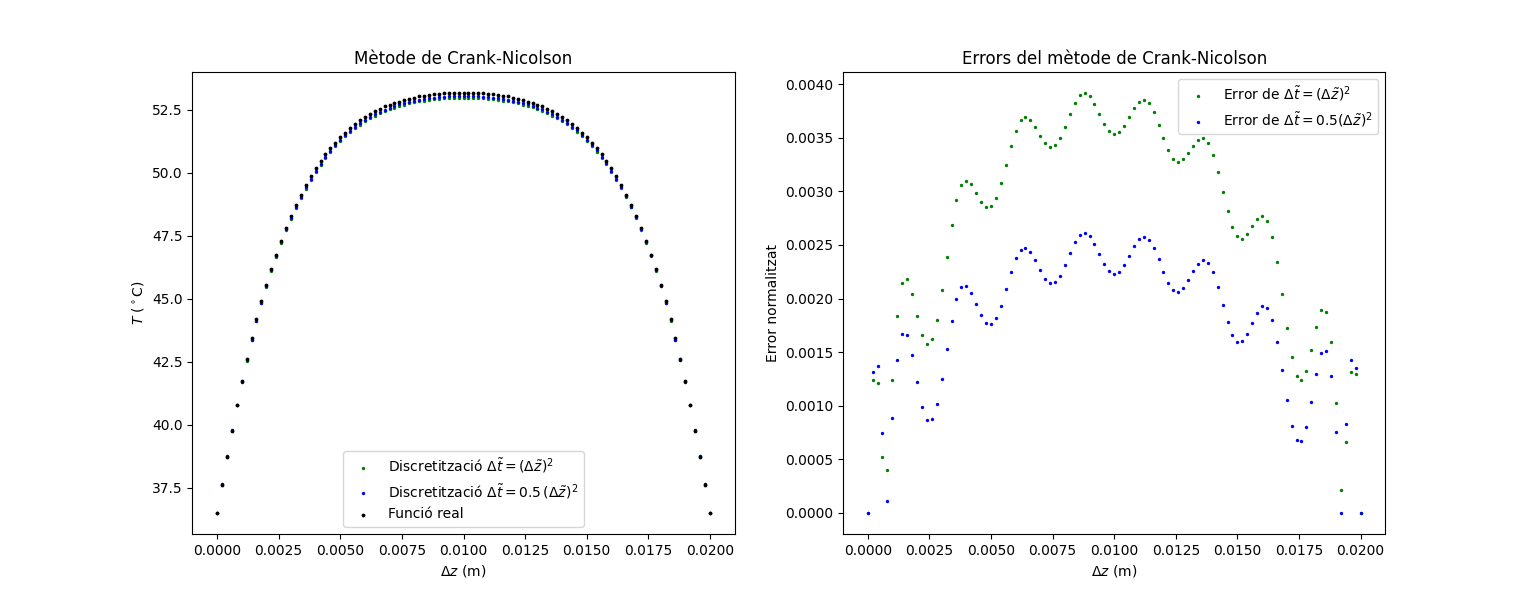
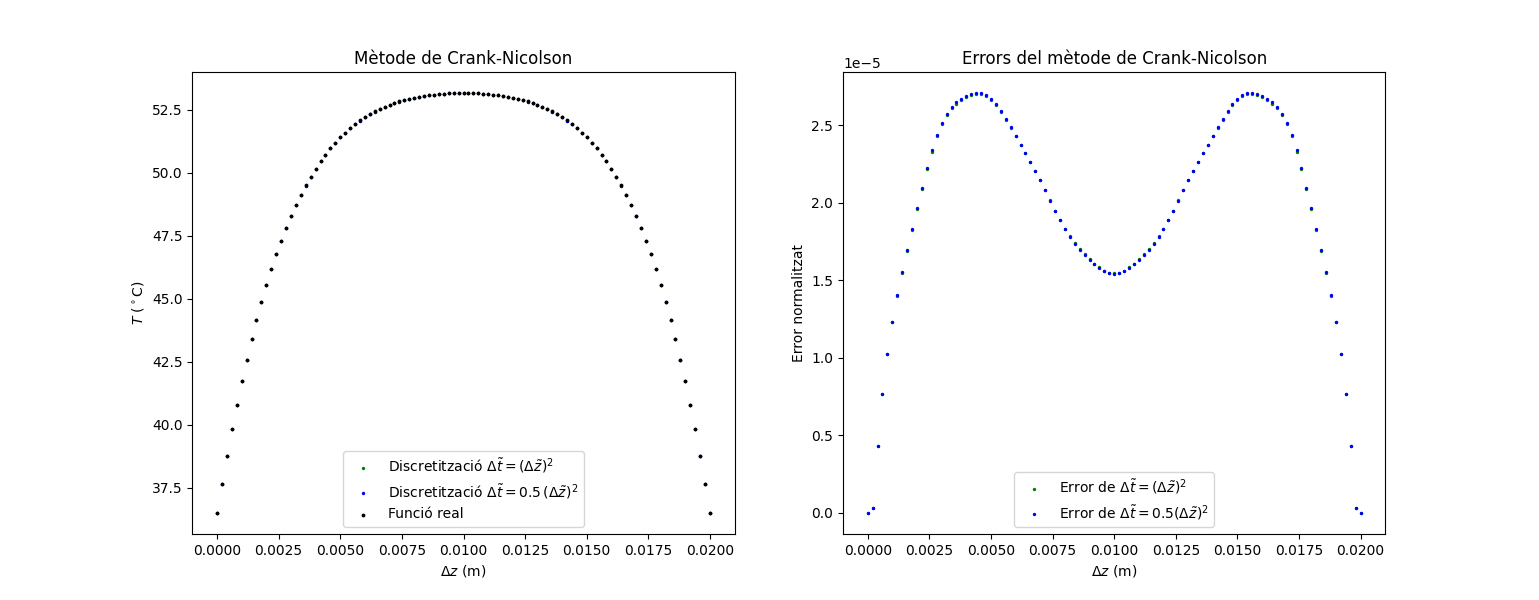
Add new files

diff --git a/Crank-Nicolson.py b/Crank-Nicolson.py
@@ -63,7 +63,7 @@ for o in range(2):
     phi=tau*np.ones(N) # Assignem la temperatura normalitzada com a llista.
     v=phi[1:N-1] #Agafem tots els valors de T que no siguin els valors 
     for j in range(int(p[o])):
-        u, total=gs(A[o], gamma[o], v, calcul_b(v, gamma[o], delta_t[o], tau), N, 0.00001) #Apliquem el mètode de gauss-seidel
+        u, total=gs(A[o], gamma[o], v, calcul_b(v, gamma[o], delta_t[o], tau), N, 10**(-12)) #Apliquem el mètode de gauss-seidel
         for k in range(N-2): v[k]=u[k] #Reescribim els valors de v.
     foxtrot[o]=np.append(np.array([phi[0]]), np.array(v)) #Posem el valor de la temperatura a z=0 al començament de la llista.
     foxtrot[o]=np.append(np.array(foxtrot[o]), np.array([phi[-1]])) #Posem el valor de la temperatua a z=h al final de la llista.
@@ -73,7 +73,7 @@ for o in range(2):
 x=np.linspace(0, const.L_0, N) #Definim l'eix x de la gràfica
 
 Temp_1, Temp_2= foxtrot #Assignem els valors de cada temperatura a una llista corresponent.
-Temp_real=sa.sol_analít(delta_z, N,t_a, 0.0001) #Llista per calcular la temperatura a partir de la funció analítica.
+Temp_real=sa.sol_analít(delta_z, N,t_a, 10**(-11)) #Llista per calcular la temperatura a partir de la funció analítica.
 for i in range(N):
     Temp_real[i]=Temp_real[i]-273.15 #Temperatura a cada punt del mallat segons la solució analítica
 
@@ -158,7 +158,7 @@ plt.scatter(x, Temp_2, color='k', s=3, label=rf"Crank-Nickolson amb $\Delta \til
 plt.xlabel(r"$z$ (m)")
 plt.ylabel(r"$T$ ($^\circ $C)")
 plt.legend(loc="best")
-plt.title(r"Comparació Euler explícit amb Crack-Nicolson")
+plt.title(r"Comparació Euler implícit amb Crack-Nicolson")
 plt.legend(loc='best')
 
 plt.subplot(1,2,2)
@@ -166,6 +166,6 @@ plt.scatter(x, Err_21, color='r', s=2, label=rf"Euler explícit amb $\Delta \til
 plt.scatter(x, Err_22, color='indigo', s=2, label=rf"Euler explícit amb $\Delta \tilde t = 0.5 \, (\Delta \tilde z)^2$")
 plt.xlabel(r"$\Delta z$ (m)")
 plt.ylabel(r"Error normalitzat")
-plt.title(r"Errors del mètode d'Euler explícit comparat amb Crank Nicolson")
+plt.title(r"Errors del mètode d'Euler implícit comparat amb Crank Nicolson")
 plt.legend(loc='best')
 plt.show()

diff --git a/Euler_explícit.py b/Euler_explícit.py
@@ -43,7 +43,7 @@ Temp_3=calcul_temperatura(tau, delta_z, N, p[2], gamma[2]) #Temperatura per a la
 x=np.linspace(0, const.L_0, N) #Definim l'eix x de la gràfica
 
 Temp_real=np.ones(N) #Llista per calcular la temperatura a partir de la funció analítica.
-Temp_real=sa.sol_analít(delta_z, N,t_a, 0.00001) #Llista per calcular la temperatura a partir de la funció analítica.
+Temp_real=sa.sol_analít(delta_z, N,t_a, 10**(-11)) #Llista per calcular la temperatura a partir de la funció analítica.
 for i in range(N):
     Temp_real[i]=Temp_real[i]-273.15 #Temperatura a cada punt del mallat segons la solució analítica
 
@@ -56,8 +56,8 @@ for i in range(N):
 #Gràfics de la representació de la funció i del seu error
 plt.figure(figsize=(16,6))
 plt.subplot(1,2,1)
-plt.scatter(x, Temp_1, marker='o', color='g', s=2, label=rf"Discretització $\Delta \tilde t = (\Delta \tilde z)^2$")
-plt.scatter(x, Temp_2, marker='o', color='b', s=2, label=rf"Discretització $\Delta \tilde t = 0.5 \, (\Delta \tilde z)^2$")
+plt.scatter(x, Temp_1, marker='o', color='g', s=2, label=rf"Discretització $\Delta \tilde t = 0.51 (\Delta \tilde z)^2$")
+plt.scatter(x, Temp_2, marker='o', color='b', s=2, label=rf"Discretització $\Delta \tilde t = 0.49 \, (\Delta \tilde z)^2$")
 plt.scatter(x, Temp_3, marker='o', color="purple", s=2, label=fr"Discretització $\Delta \hat t=0.25 (\Delta \hat z)^2$")
 plt.scatter(x, Temp_real, color='k', s=3, label=rf"Funció real")
 plt.xlabel(r"$z$ (m)")
@@ -68,8 +68,8 @@ plt.title(r"Mètode d'Euler explícit")
 plt.legend(loc='best')
 
 plt.subplot(1,2,2)
-plt.scatter(x, E_1, color='g', s=2, label=rf"Error de $\Delta \tilde t = (\Delta \tilde z)^2$")
-plt.scatter(x, E_2, color='b', s=2, label=rf"Error de $\Delta \tilde t = 0.5(\Delta \tilde z)^2$")
+plt.scatter(x, E_1, color='g', s=2, label=rf"Error de $\Delta \tilde t = 0.51 (\Delta \tilde z)^2$")
+plt.scatter(x, E_2, color='b', s=2, label=rf"Error de $\Delta \tilde t = 0.49 (\Delta \tilde z)^2$")
 plt.scatter(x, E_3, color='purple', s=2, label=rf"Error de $\Delta \tilde t = 0.25 (\Delta \tilde z)^2$")
 plt.xlabel(r"$z$ (m)")
 plt.ylabel(r"Error normalitzat")

diff --git a/animacio1.py b/animacio1.py
@@ -7,6 +7,7 @@ from matplotlib.patches import Rectangle
 import constants as const
 import math
 from gauss_seidel import gauss_seidel as gs
+import matplotlib.animation as animation
 
 """
 Aquest és el codi de l'animació del que passa. Hem utilitzat moltes parts del codi Solució_problema. Per poder realitzar
@@ -39,6 +40,7 @@ def color_T(T_a,T_b,T_1,T_2,T_3):
     if (T>T_2) and (T<=T_3):
         col[0]=(255*T_3/d_2)-(255*T/d_2)
     return (col[0]/255.0,col[1]/255.0,col[2]/255.0)
+
 
 #Càlcul de les variables necessàries.:
 tau = T_c/T_0 #Temperatura inicial normalitzada. tau=T(t=0)/T_0, T_0= k/sigma*(V_0**2).
@@ -81,7 +83,7 @@ fotograma=[phi] #Llista format de les llistes de cada iteració de les temperatu
 temps=[0] #Llista del temps que passa a cada fotograma de l'animació
 
 while b_1 and b_2:
-    v, total=gs(A, gamma, v, calcul_b(v, gamma, delta_t, tau), N, 0.0000000001) #Apliquem el mètode de gauss-seidel
+    v, total=gs(A, gamma, v, calcul_b(v, gamma, delta_t, tau), N, 10**(-12)) #Apliquem el mètode de gauss-seidel
     # for k in range(N-2): v[k]=u[k] #Reescribim els valors de v.
     u=v[j_1:j_2] #Conjunt de punts dins de la zona malalta amb la seva temperatura.
     w=np.append(v[:(j_1-1)], v[(j_2+1):]) #Conjunt de punts fora de la zona malalta amb la seva temperatura.
@@ -125,4 +127,4 @@ def update(fotograma_numero):
 
 #Apliquem el mètode de l'animació sogons el tutorial de Youtube i la biblioteca de matplotlib.animation.
 animació = FuncAnimation(fig, update, frames=len(fotograma), interval=delta_t*const.t_0, repeat=False)
-plt.show()
+animació.save('Videoanimacio.gif', writer=animation.PillowWriter(fps=len(fotograma)))

diff --git a/Solució_problema.py b/Solució_problema.py
@@ -57,9 +57,10 @@ phi=tau*np.ones(N) # Assignem la temperatura normalitzada com a llista.
 v=phi[1:N-1] #Agafem tots els valors de T que no siguin els valors
 b_1=True #No s'ha superat la temperatura de 80ºc. Boolean 1
 b_2=True #Fora de l'interval no s'ha superat la temperatura de 50ªC. Boolean 2
-comptador=0
+comptador_1=0
+comptador_2=0
 while b_1 and b_2:
-    v, total=gs(A, gamma, v, calcul_b(v, gamma, delta_t, tau), N, 0.0000000001) #Apliquem el mètode de gauss-seidel
+    v, total=gs(A, gamma, v, calcul_b(v, gamma, delta_t, tau), N, 10**(-12)) #Apliquem el mètode de gauss-seidel
     u=v[j_1:j_2] #Llistat de temperatures dins de la regió malalta.
     w=np.append(v[:(j_1-1)], v[(j_2+1):]) #Llistat de temperatures fora de la regió malalta.
     if (max(v)>T_2): #Si la temperatura a quasevol punt és major a 80ºC
@@ -67,8 +68,10 @@ while b_1 and b_2:
     if (max(w)>T_1): #Si fora de la regió malalta algun punt arriba als 50ºC.
         b_2=False
     if b_1 and (max(u)>T_1): #Comptem quan temps passa la regió malalta per sobre dels 50ºC.
-        comptador+=1
-print("Temps d'exposició: ", (comptador*delta_t*const.t_0))
+        comptador_1+=1
+    comptador_2+=1
+print("Temps d'exposició: ", (comptador_1*delta_t*const.t_0))
+print("Temps amb la màquina engegada: ", (comptador_2*delta_t*const.t_0))
 foxtrot=np.append(np.array([phi[0]]), np.array(v)) #Posem el valor de la temperatura a z=0 al començament de la llista.
 foxtrot=np.append(np.array(foxtrot), np.array([phi[-1]])) #Posem el valor de la temperatua a z=h al final de la llista.
 for i in range(len(foxtrot)):

diff --git a/Euler_implícit.py b/Euler_implícit.py
@@ -44,7 +44,7 @@ for o in range(2):
     phi=tau*np.ones(N) # Assignem la temperatura normalitzada com a llista.
     v=phi[1:N-1] #Agafem tots els valors de T que no siguin els valors 
     for j in range(int(p[o])):
-        u, total=gs(A[o], gamma[o], v, calcul_b(v, delta_z, gamma[o], tau), N, 0.00001) #Apliquem el mètode de gauss-seidel
+        u, total=gs(A[o], gamma[o], v, calcul_b(v, delta_z, gamma[o], tau), N, 10**(-10)) #Apliquem el mètode de gauss-seidel
         for k in range(N-2): v[k]=u[k] #Reescribim els valors de v.
     foxtrot[o]=np.append(np.array([phi[0]]), np.array(v)) #Posem el valor de la temperatura a z=0 al començament de la llista.
     foxtrot[o]=np.append(np.array(foxtrot[o]), np.array([phi[-1]])) #Posem el valor de la temperatua a z=h al final de la llista.
@@ -54,7 +54,7 @@ for o in range(2):
 x=np.linspace(0, const.L_0, N) #Definim l'eix x de la gràfica
 
 Temp_1, Temp_2= foxtrot #Assignem els valors de cada temperatura a una llista corresponent.
-Temp_real=sa.sol_analít(delta_z, N,t_a, 0.00001) #Llista per calcular la temperatura a partir de la funció analítica.
+Temp_real=sa.sol_analít(delta_z, N,t_a, 10**(-11)) #Llista per calcular la temperatura a partir de la funció analítica.
 for i in range(N):
     Temp_real[i]=Temp_real[i]-273.15 #Temperatura a cada punt del mallat segons la solució analítica
 

diff --git a/solucio_analitica.py b/solucio_analitica.py
@@ -9,11 +9,11 @@ def sol_analít(dz, N, t, error):
     b_1=True #No convergent
     while b_1:
         for i in range(N):
-            vector[i]+=T_0*(4*((1-np.exp(-((2*n+1)**2)*(np.pi**2)*t))
-                                        /(((2*n+1)**3)*(np.pi**3)))*np.sin((2*n+1)*np.pi*(i*dz)))
+            vector[i]+=T_0*4*((1-np.exp(-((2*n+1)**2)*(np.pi**2)*t))
+                                        /(((2*n+1)**3)*(np.pi**3)))*np.sin((2*n+1)*np.pi*(i*dz))
             if n>1:
-                E[i]=abs(T_0*(4*((1-np.exp(-((2*n+1)**2)*(np.pi**2)*t))
-                                 /(((2*n+1)**3)*(np.pi**3)))*np.sin((2*n+1)*np.pi*(i*dz))))/vector[i]
+                E[i]=abs(((1-np.exp(-((2*n+1)**2)*(np.pi**2)*t))
+                                 /(((2*n+1)**3)*(np.pi**3)))*np.sin(((2*n)+1)*np.pi*(i*dz)))/vector[i]
         if max(E)<=error:
             b_1=False
         n+=1
